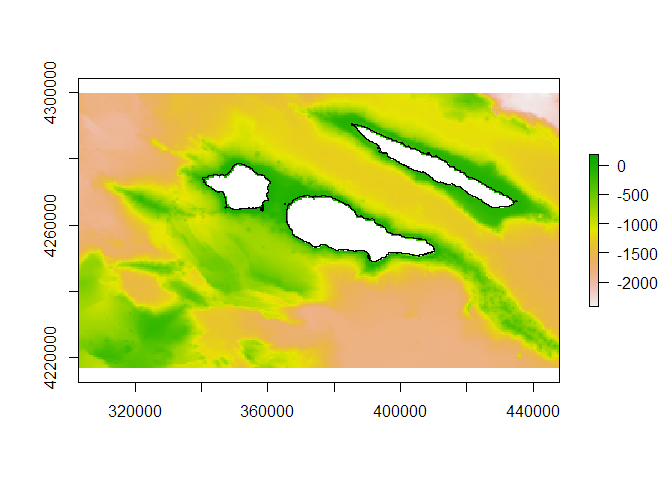
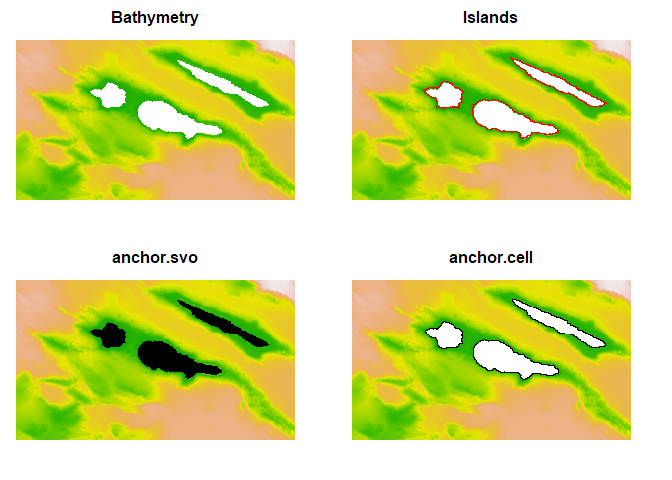
readme

diff --git a/README.md b/README.md
@@ -208,34 +208,28 @@ raster::plot(rstack)
 
 <img src="man/figures/README-rastPlot-1.png" width="100%" />
 
-### Step 0: Set anchor cells from the islands shapefile
+## Island Shelf Units
 
 In order to start our GMUs classification, we can consider **island
-shelf units (ISUs)**. ISUs are comprise two main elements: (i) island
+shelf units (ISUs)**. ISUs comprise two main elements: (i) island
 shelves (i.e. relatively flat areas surrounding islands) and (ii) slopes
 that connect island shelves with the seafloor. We will classify island
 shelves with the numeric value `1000` and island slopes with the numeric
 value `1100`.
 
-Let us start by loading and plot the island shapefile:
+By definition, it is possible to consider all cells adjacent to
+landmasses as island shelves. We can use a shapefile to determine where
+the islands are located, the function `anchor.svo` to extract anchor
+cells from spatial vector objects and the function `anchor.cell` to
+perform the first step of our classification:
 
 ``` r
-# READ AND PLOT SHAPEFILE
+# READ SHAPEFILE
 shp <- system.file("extdata", "Azores.shp", package = "scapesClassification")
 
 island <- rgdal::readOGR(dsn = shp, verbose = F)
 island <- sp::spTransform(island, raster::crs(rstack))
 
-raster::plot(rstack[["bathymetry_exm"]])
-raster::plot(island, add = TRUE)
-```
-
-<img src="man/figures/README-islandshape-1.png" width="100%" />
-
-We can consider that all cells adjacent to landmasses can be classified
-as island shelves. We can use the function `?anchor.svo` to do so:
-
-``` r
 ## ANCHOR POINTS FROM LAND POSITION
 anchorL <- anchor.svo (rstack = rstack, 
                        spatial_vector_name = shp, 
@@ -243,20 +237,42 @@ anchorL <- anchor.svo (rstack = rstack,
                        fill_NAs = TRUE, 
                        plot = FALSE)
 
-## INCLUDE ANCHOR POINTS IN A RASTER
-r2   <- rstack[[1]]
-r2[] <- NA
-r2[anchorL] <- 1
+## INCLUDE ANCHOR POINTS IN A RASTER FOR PLOTTING
+rL          <- rstack[[1]]
+rL[]        <- NA
+rL[anchorL] <- 1
 
-## YOU CAN SAVE THE RASTER
-# writeRaster(r2, "step0.tif")
+## SET CELLS ADJACENT TO LAND ANCHOR POINTS AS ISLAND SHELVES (class = 1000)
+classVector <- anchor.cell(dt, 
+                           rstack, 
+                           anchor      = anchorL, 
+                           class       = 1000,
+                           classVector = NULL,
+                           class2cell  = FALSE,
+                           class2nbs   = TRUE,
+                           plot        = FALSE)
 
-## PLOT THE RESULTS
-raster::plot(rstack[["bathymetry_exm"]], legend = FALSE) # BATHYMETRY
-raster::plot(r2, add = TRUE, col = "black", legend = FALSE) # ANCHOR CELLS
+## INCLUDE classVector IN A RASTER FOR PLOTTING
+rAC   <- rstack[[1]]
+rAC[] <- NA
+rAC[dt$Cell] <- classVector
+
+## PLOT RESULTS
+par(mfrow=c(2,2), mar=c(2,1,2,0))
+raster::plot(rstack[["bathymetry_exm"]], main = "Bathymetry", legend = FALSE, axes = FALSE, box = FALSE)
+
+raster::plot(rstack[["bathymetry_exm"]], main = "Islands", legend = FALSE, axes = FALSE, box = FALSE)
+raster::plot(island, add = TRUE, border = "red", lwd = 1.5)
+
+
+raster::plot(rstack[["bathymetry_exm"]], main = "anchor.svo", legend = FALSE, axes = FALSE, box = FALSE) # BATHYMETRY
+raster::plot(rL, add = TRUE, col = "black", legend = FALSE) # ANCHOR CELLS
+
+raster::plot(rstack[["bathymetry_exm"]], main = "anchor.cell", legend = FALSE, axes = FALSE, box = FALSE) # BATHYMETRY
+raster::plot(rAC, add = TRUE, col = "black", legend = FALSE) # CLASS VECTOR
 ```
 
-<img src="man/figures/README-step0-1.png" width="100%" />
+<img src="man/figures/README-islandshape-1.png" width="100%" />
 
 Note that the arguments: \* `only_NAs` determines the function to return
 only cell numbers overlapping with the spatial vector data that have
